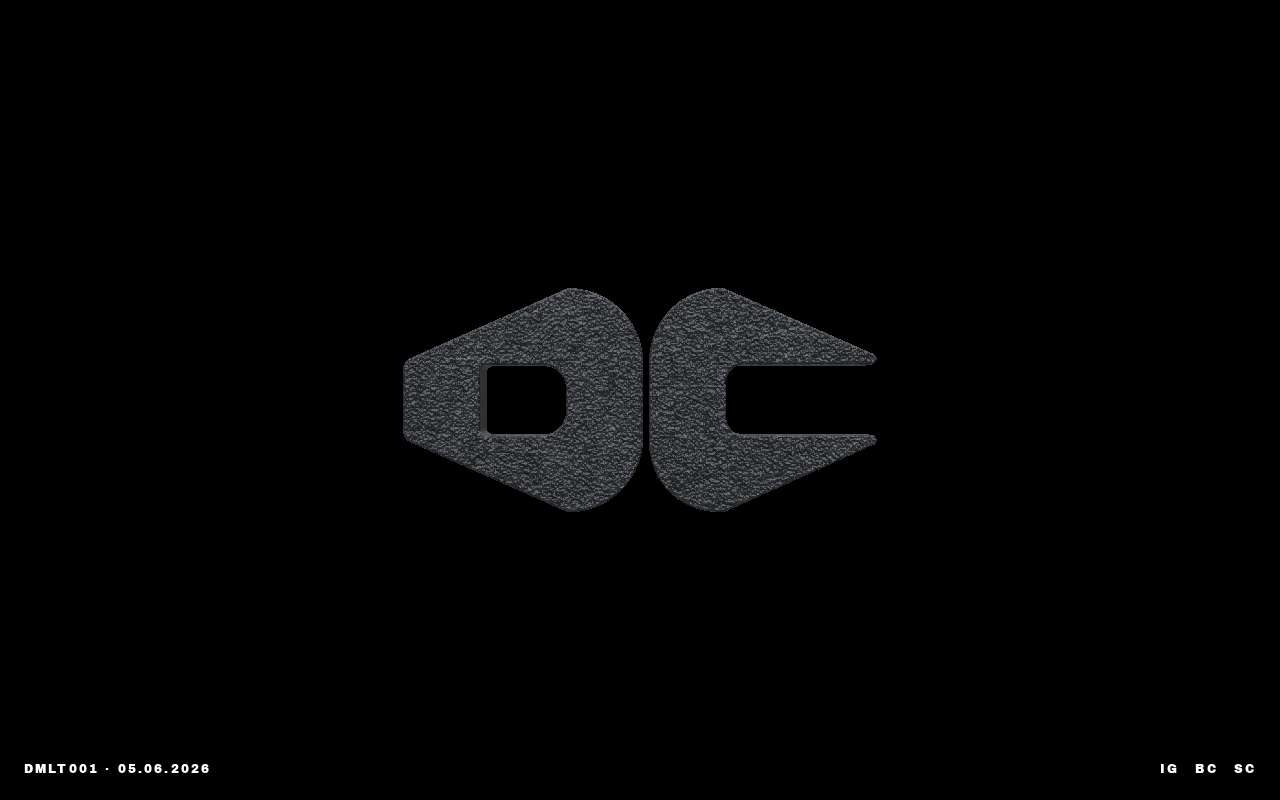
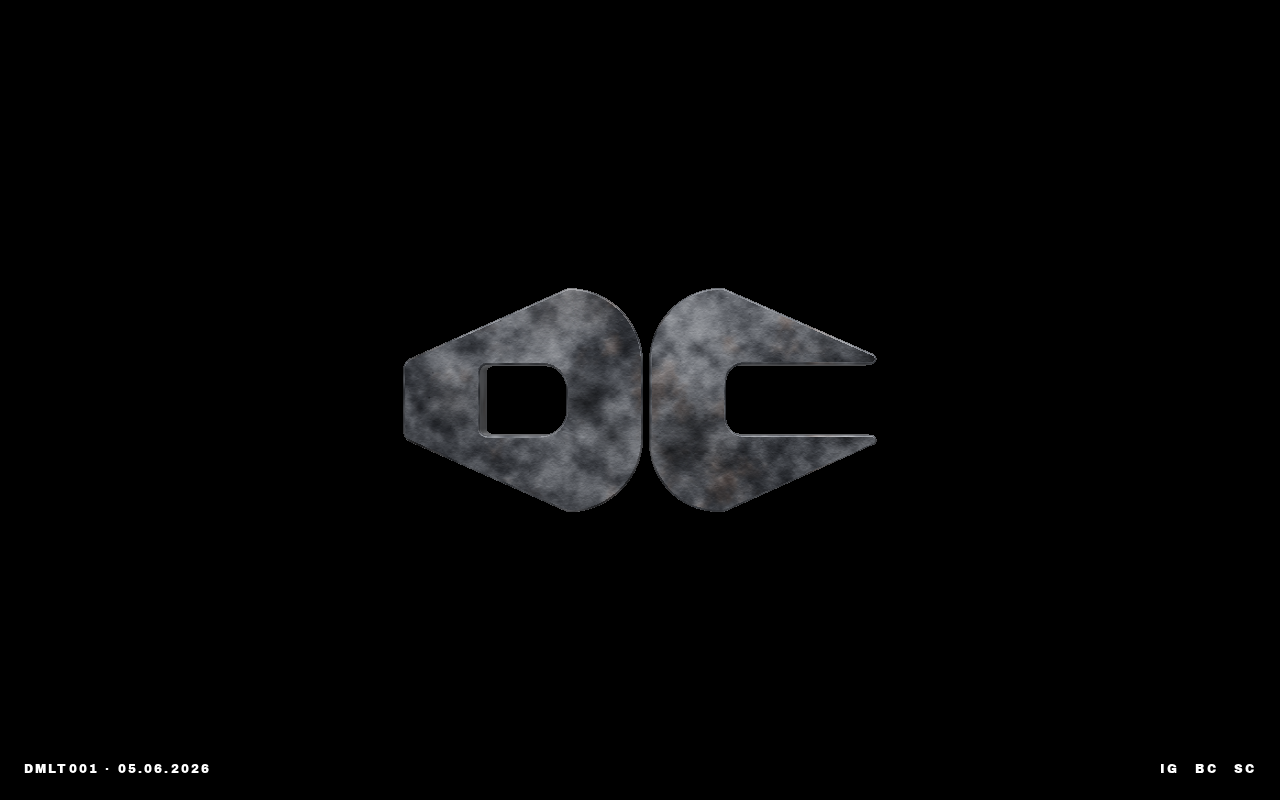
TDD:RED:tdd-1778822685-580046 still failing cycle 5

Changed region(s): [[0.3125, 0.3438, 0.6875, 0.6562]]

diff --git a/index.html b/index.html
@@ -270,27 +270,26 @@
     }
     actx.putImageData(aimg, 0, 0);
 
-    // SCRATCH OVERLAY — fine random scratches like ref3, vector-drawn on top.
-    // Use 'lighter' blending for bright hairlines and 'multiply' for dark gouges.
-    // Density is moderate: enough to feel weathered up close, not chaotic.
+    // FINE SCRATCH OVERLAY — VERY sparse. Ref2 has no obvious scratches; we add
+    // only a few faint hairlines to suggest tool-mark character up close,
+    // staying well below the threshold that would make it look like ref3.
     actx.save();
-    const NUM_SCRATCHES = 600;
+    const NUM_SCRATCHES = 90;
     for (let s = 0; s < NUM_SCRATCHES; s++) {
       const x0 = Math.random() * TEX_SIZE;
       const y0 = Math.random() * TEX_SIZE;
-      // Scratches mostly trend in 2-3 directions (tool marks) with jitter.
-      const baseAngle = (Math.random() < 0.5) ? 0.3 : -0.4;
-      const ang = baseAngle + (Math.random() - 0.5) * 1.6;
-      const len = 40 + Math.random() * Math.random() * 380;  // bias short, allow long
+      const baseAngle = (Math.random() < 0.5) ? 0.25 : -0.35;
+      const ang = baseAngle + (Math.random() - 0.5) * 1.2;
+      const len = 30 + Math.random() * Math.random() * 220;
       const x1 = x0 + Math.cos(ang) * len;
       const y1 = y0 + Math.sin(ang) * len;
-      const bright = Math.random() < 0.65;
-      const a = 0.10 + Math.random() * 0.20;
+      const bright = Math.random() < 0.5;
+      const a = 0.04 + Math.random() * 0.06;
       actx.globalCompositeOperation = bright ? 'lighter' : 'multiply';
       actx.strokeStyle = bright
-        ? `rgba(210, 215, 220, ${a})`
-        : `rgba(12, 14, 18, ${a + 0.10})`;
-      actx.lineWidth = 0.6 + Math.random() * 1.2;
+        ? `rgba(190, 195, 200, ${a})`
+        : `rgba(14, 16, 20, ${a + 0.04})`;
+      actx.lineWidth = 0.5 + Math.random() * 0.8;
       actx.beginPath();
       actx.moveTo(x0, y0);
       const mx = (x0 + x1) / 2 + (Math.random() - 0.5) * 8;
@@ -298,15 +297,43 @@
       actx.quadraticCurveTo(mx, my, x1, y1);
       actx.stroke();
     }
-    // A few small dark specks/pits (ref2 has these — small dark dots)
+    // Dark pits — ref2 has scattered tiny dark spots.
     actx.globalCompositeOperation = 'multiply';
-    for (let p = 0; p < 600; p++) {
+    for (let p = 0; p < 350; p++) {
       const x = Math.random() * TEX_SIZE;
       const y = Math.random() * TEX_SIZE;
       const r = 0.4 + Math.random() * 1.6;
-      actx.fillStyle = `rgba(15, 17, 20, ${0.25 + Math.random() * 0.35})`;
+      actx.fillStyle = `rgba(15, 17, 20, ${0.18 + Math.random() * 0.28})`;
       actx.beginPath();
       actx.arc(x, y, r, 0, Math.PI * 2);
+      actx.fill();
+    }
+    // A few larger soft dark blotches like ref2's deeper recesses.
+    actx.globalCompositeOperation = 'multiply';
+    for (let p = 0; p < 18; p++) {
+      const x = Math.random() * TEX_SIZE;
+      const y = Math.random() * TEX_SIZE;
+      const radius = 40 + Math.random() * 90;
+      const grad = actx.createRadialGradient(x, y, 0, x, y, radius);
+      grad.addColorStop(0, `rgba(40, 42, 46, ${0.45 + Math.random() * 0.2})`);
+      grad.addColorStop(1, 'rgba(255, 255, 255, 0)');
+      actx.fillStyle = grad;
+      actx.beginPath();
+      actx.arc(x, y, radius, 0, Math.PI * 2);
+      actx.fill();
+    }
+    // A few soft warm-brown wash blotches (ref2 has these scattered).
+    actx.globalCompositeOperation = 'multiply';
+    for (let p = 0; p < 14; p++) {
+      const x = Math.random() * TEX_SIZE;
+      const y = Math.random() * TEX_SIZE;
+      const radius = 50 + Math.random() * 110;
+      const grad = actx.createRadialGradient(x, y, 0, x, y, radius);
+      grad.addColorStop(0, `rgba(110, 92, 78, ${0.18 + Math.random() * 0.12})`);
+      grad.addColorStop(1, 'rgba(255, 255, 255, 0)');
+      actx.fillStyle = grad;
+      actx.beginPath();
+      actx.arc(x, y, radius, 0, Math.PI * 2);
       actx.fill();
     }
     actx.restore();
